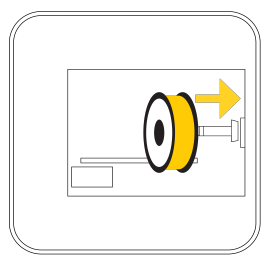
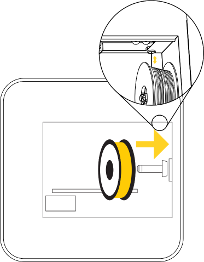
New images for the Filament switch wizard

Changed region(s): [[0.0, 0.0, 1.0, 1.0]]

diff --git a/beesoft-app/beesoft-usb/src/main/java/replicatorg/app/ui/panels/FilamentCodeInsertion.java b/beesoft-app/beesoft-usb/src/main/java/replicatorg/app/ui/panels/FilamentCodeInsertion.java
@@ -252,7 +252,7 @@ public class FilamentCodeInsertion extends BaseDialog {
         jPanel3.setBackground(new java.awt.Color(248, 248, 248));
 
         jLabel2.setHorizontalAlignment(javax.swing.SwingConstants.CENTER);
-        jLabel2.setIcon(new javax.swing.ImageIcon(getClass().getResource("/replicatorg/app/ui/panels/troca_filamento.png"))); // NOI18N
+        jLabel2.setIcon(new javax.swing.ImageIcon(getClass().getResource("/replicatorg/app/ui/panels/troca_filamento_ambos.png"))); // NOI18N
 
         jLabel3.setText("Troca de Filamento");
 
